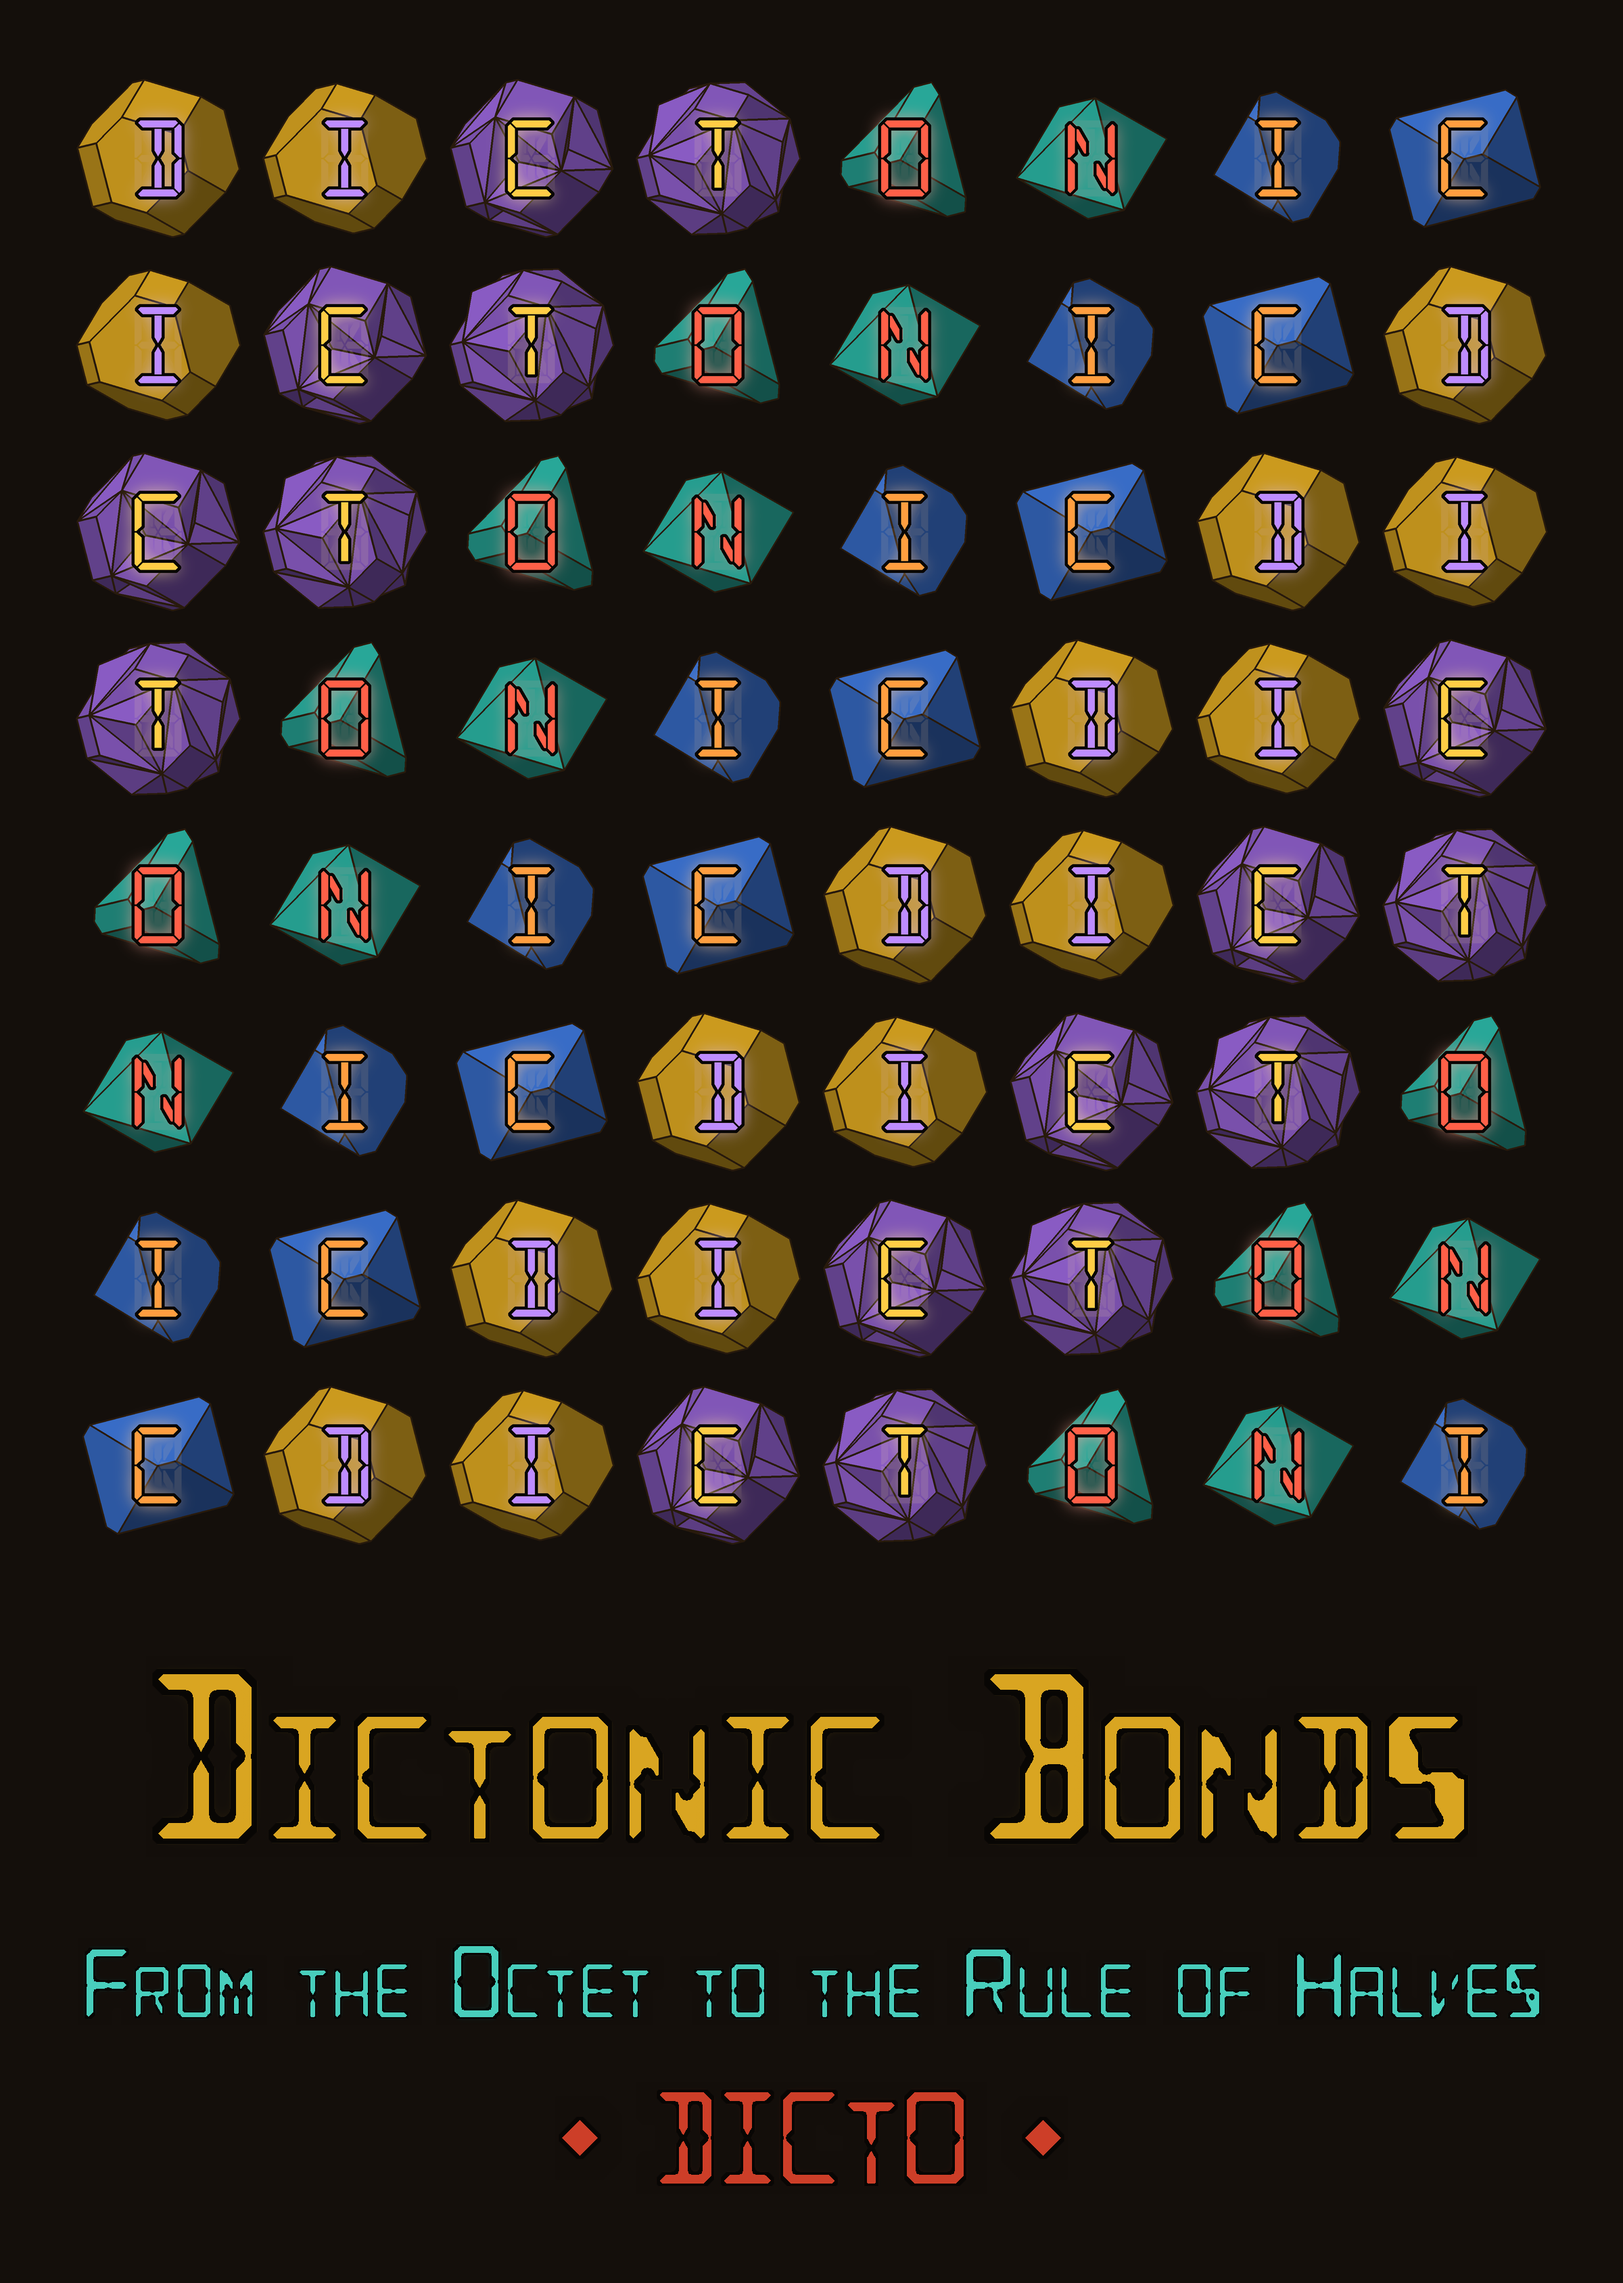
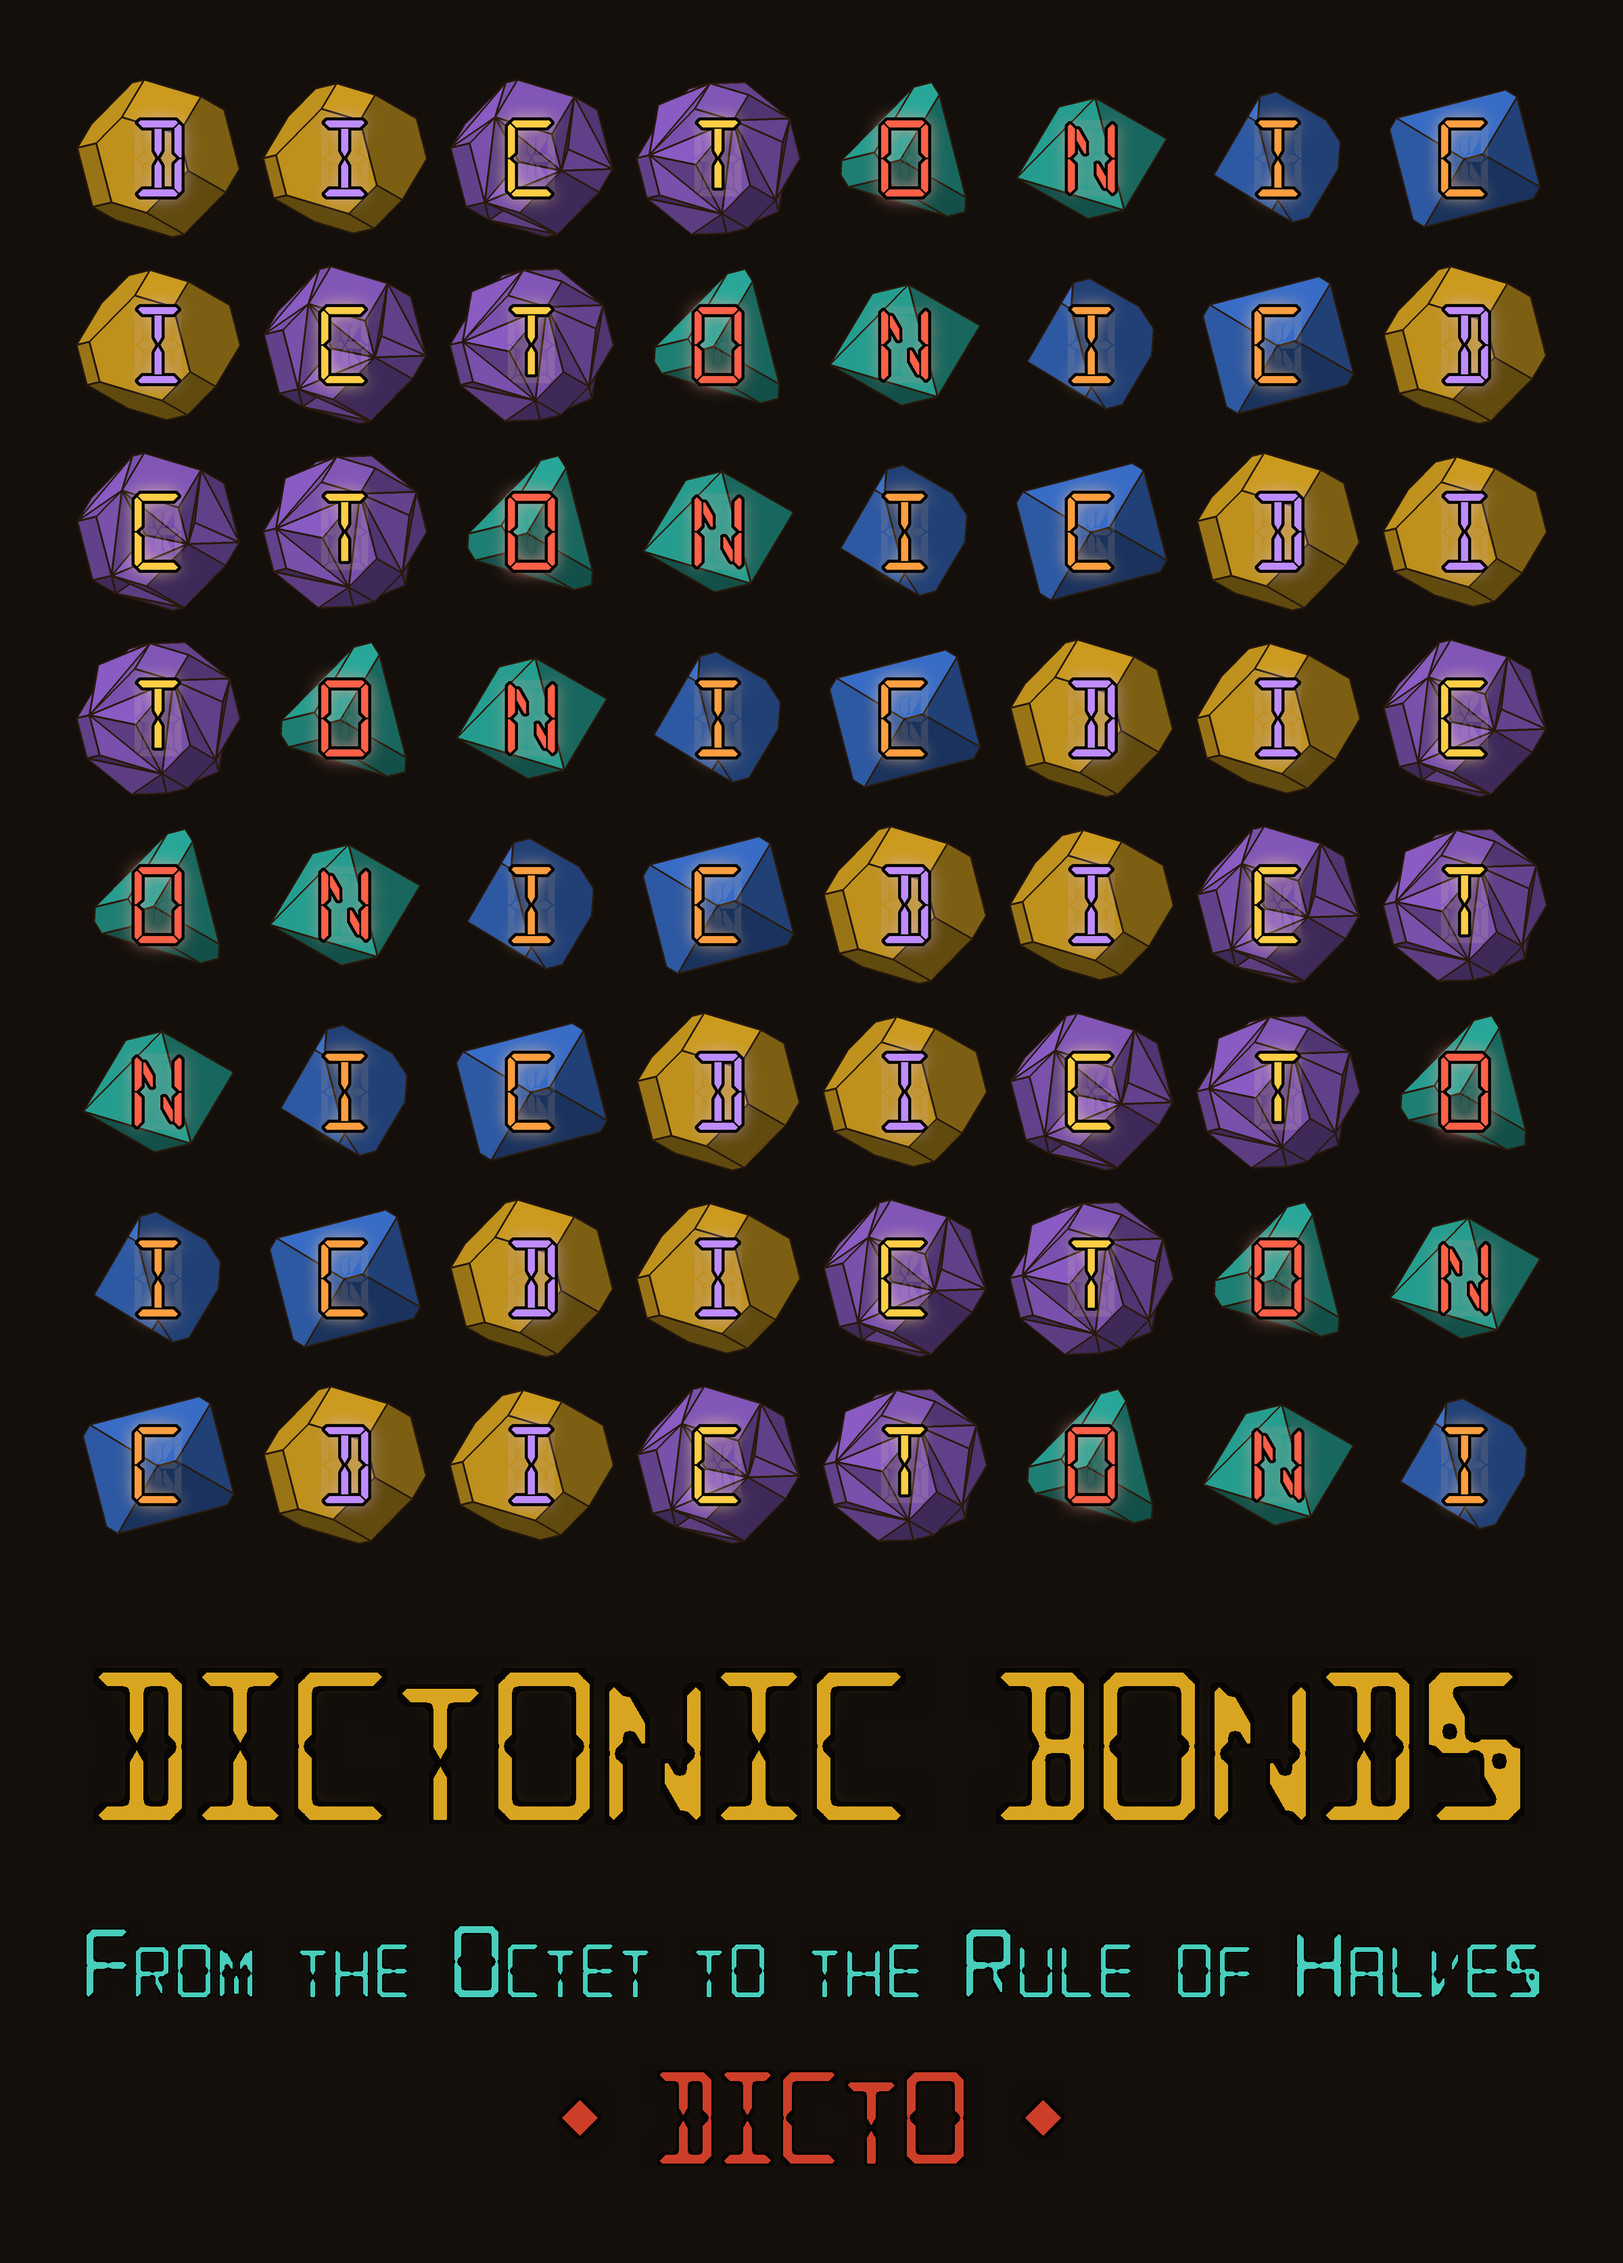
DICTONIC Bonds cover: title in full capitals on front and back (DICTO's decision)

diff --git a/studies/2026-11-03-bonds-cover/scripts/cover_title.py b/studies/2026-11-03-bonds-cover/scripts/cover_title.py
@@ -51,7 +51,7 @@ def fit(text, size, col, big):
     w = word(text, size, lambda ch: col, big=big)
     while w[1].shape[1] > 0.92 * N: size = int(size * 0.97); w = word(text, size, lambda ch: col, big=big)
     print(text, 'size', round(size / N, 4)); return w
-big = fit('DICTONIC BONDS', int(N * 0.075), GOLD, (0, 9))   # lines gold, teal, red (as Star Cores; DICTO red, as the other books)
+big = fit('DICTONIC BONDS', int(N * 0.075), GOLD, tuple(range(14)))   # DICTO 11-03: full capitals, every letter at the large capital size   # lines gold, teal, red (as Star Cores; DICTO red, as the other books)
 sub = fit('FROM THE OCTET TO THE RULE OF HALVES', int(N * 0.040), TEAL, (0, 9, 22, 30))   # initials of From, Octet, Rule, Halves
 by = word('* DICTO *', int(N * 0.042), lambda ch: RED, big=(0, 2, 3, 4, 5, 6, 8))   # every letter of DICTO is an initial (DICTO)
 H = big[1].shape[0] + sub[1].shape[0] + by[1].shape[0] + int(N * 0.16)

diff --git a/studies/2026-11-03-bonds-cover/scripts/kdp_cover.py b/studies/2026-11-03-bonds-cover/scripts/kdp_cover.py
@@ -34,7 +34,8 @@ def para(x, y, text, font, width, fill=WHITE, lead=1.42):
     if line: d.text((x, y), line, font=font, fill=fill); y += font.size * lead
     return y
 x = px(xb0 + 0.85); wid = px(TW - 1.7); y = px(BLEED + 1.0)
-d.text((x, y), 'DICTONIC Bonds', font=F('NimbusSans-Bold.otf', 30), fill=GOLD); y += px(0.62)
+d.text((x, y), 'DICTONIC BONDS',   # DICTO 11-03: full capitals, as the front
+       font=F('NimbusSans-Bold.otf', 30), fill=GOLD); y += px(0.62)
 d.text((x, y), 'from the Octet to the Rule of Halves', font=F('NimbusSans-Regular.otf', 16), fill=TEAL); y += px(0.6)   # teal, as on the front
 body = F('NimbusSans-Regular.otf', 11.5)
 # blurb from the book's preface (front.html); claims only from the book

diff --git a/studies/2026-11-03-bonds-cover/README.md b/studies/2026-11-03-bonds-cover/README.md
@@ -8,6 +8,6 @@ Request (2026-11-03): the cover for DICTO's book "DICTONIC Bonds: from the Octet
 - Pieces in the book's order (preface), exact corners and faces from the DICTO Solids dataset v7: D Icosaxes, I Unborn Axes (Golden bond, gold); C Lotus Jewel Axes, T Dodecaxes (Keyed bond, violet); O Samson, N Delilah (Delian bond, teal); I Sonsam, C Lahdeli (Twinned Delian bond, blue). Face counts checked (14, 14, 54, 54, 10, 8, 13, 8); winding checked; one circumradius, the squares' one pose.
 - Two pieces are not convex (dents, keys), so the pieces are drawn with a depth buffer; edges are the borders between visible face planes (~2 px at 2400 px).
 - Letters: the HexOct LED letters (DSEG14 Classic, OFL) in the opposite palette colour, as Star Cores: violet on gold, gold on violet, red on teal, orange on blue.
-- Title panel as Star Cores: DICTONIC BONDS (gold), FROM THE OCTET TO THE RULE OF HALVES (teal, shrunk to fit: 0.0325 N against 0.040), ◆ DICTO ◆ (red). No series line (not part of a series).
+- Title panel as Star Cores: DICTONIC BONDS (gold, full capitals: every letter at the large size, DICTO 11-03; back title also capitals), FROM THE OCTET TO THE RULE OF HALVES (teal, shrunk to fit: 0.0325 N against 0.040), ◆ DICTO ◆ (red). No series line (not part of a series).
 - KDP wrap: A4 trim, bleed 0.125 in, 300 dpi; spine = 105 x 0.002252 in = 0.2365 in (white paper, as the other books; check KDP's calculator before upload); spine text (105 > 79 pages). Back: blurb from the preface, author note, ◆ DICTO ◆ mark, logo, DOI line "(to come)", barcode area 2 x 1.2 in kept clear.
 - scripts/bonds_square.py <dataset solids dir>, scripts/cover_title.py, scripts/kdp_cover.py (PAGES=, GUIDES=1); run on dicto-big-brother in ~/kres-tmp/bonds-cover/scripts.
